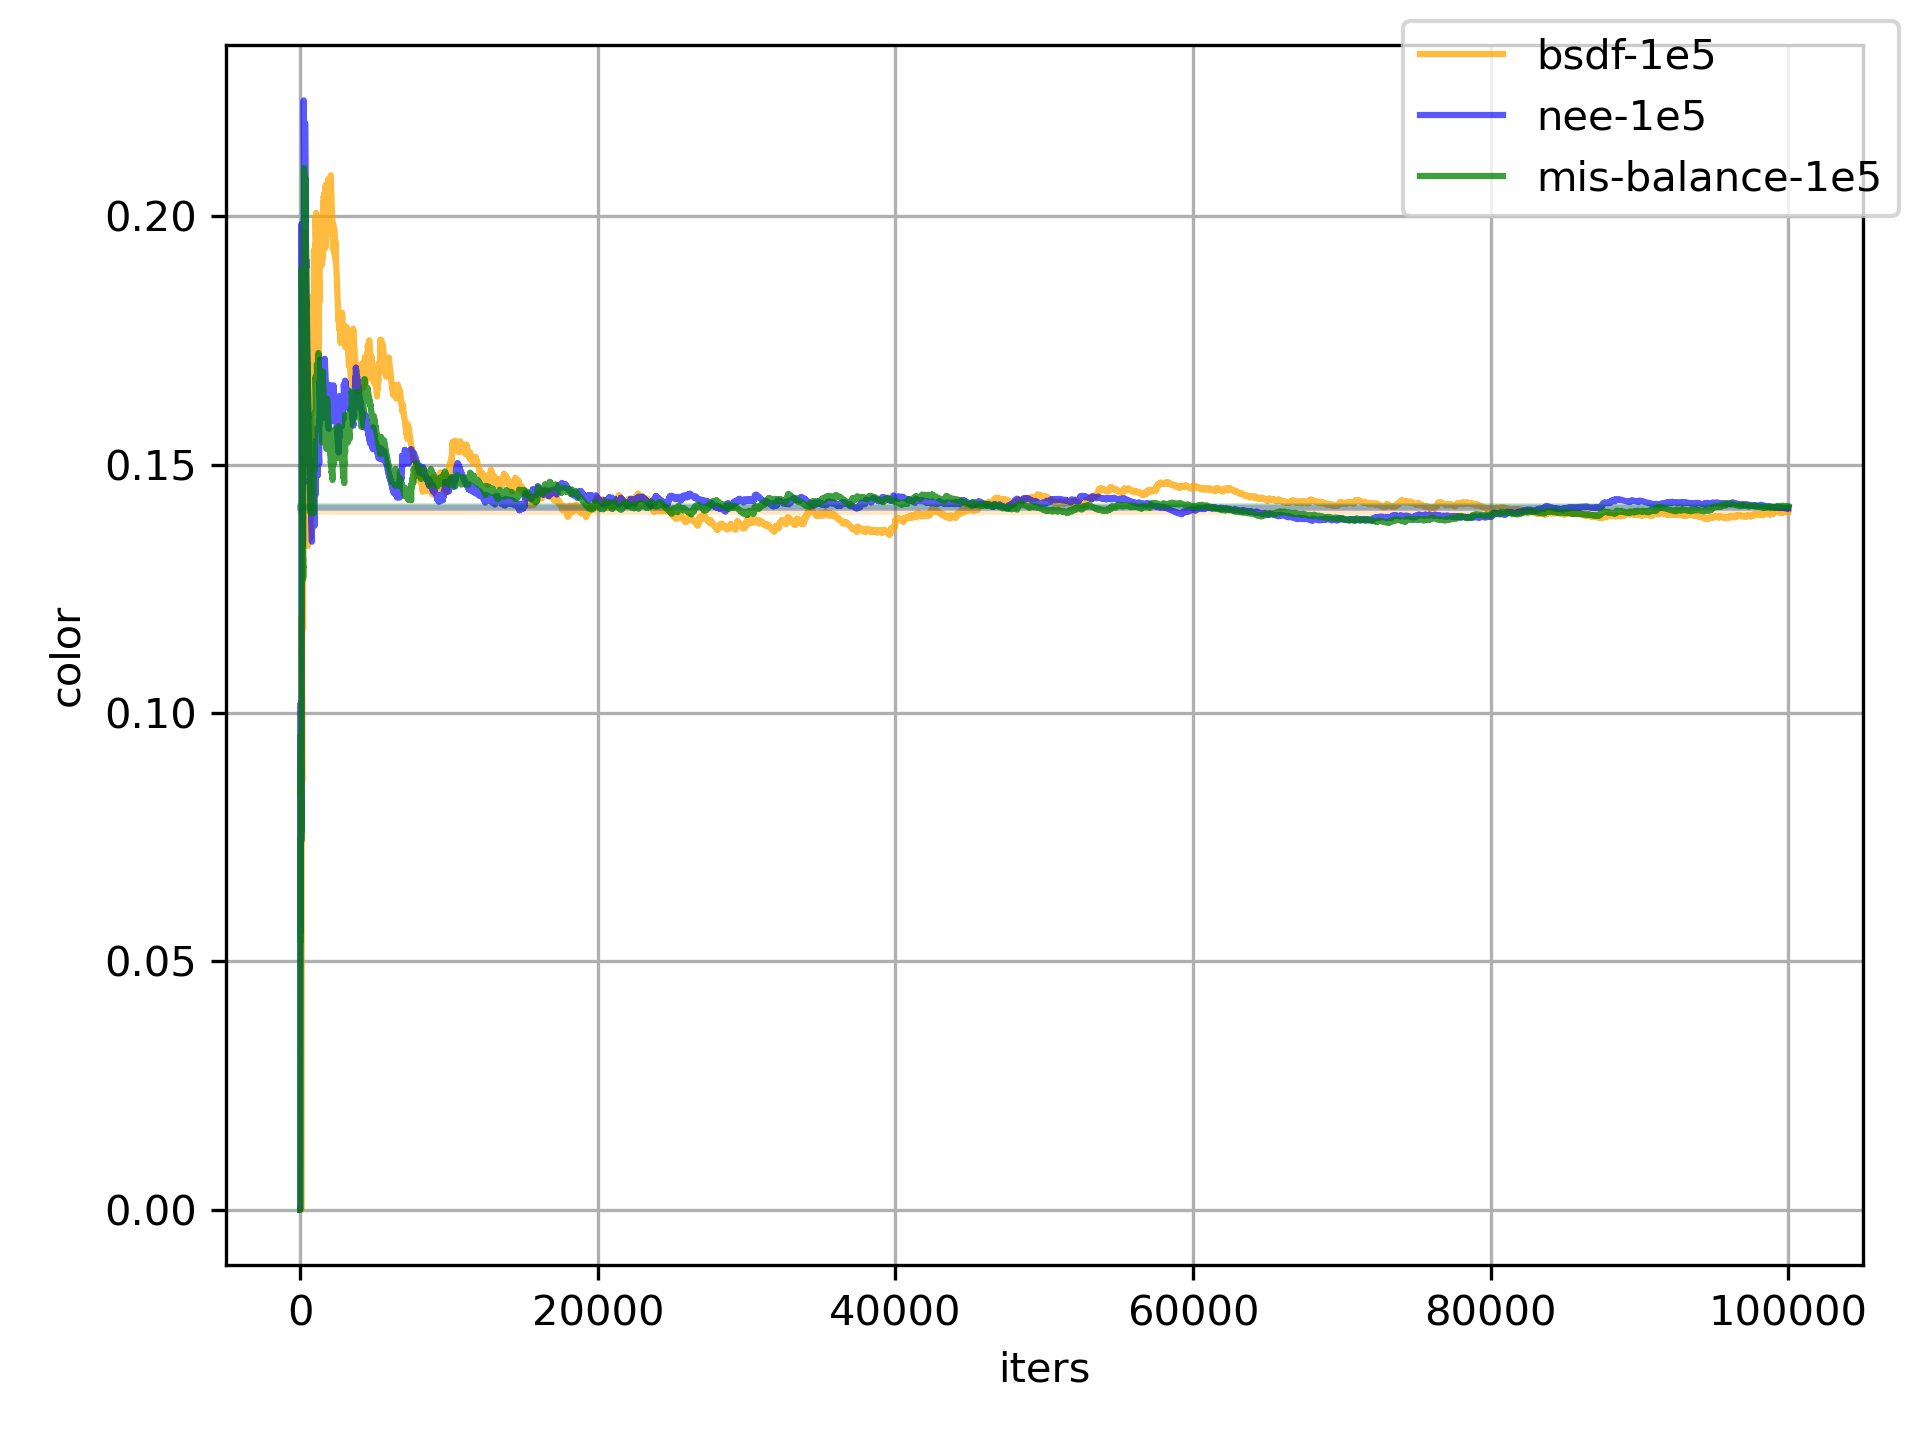
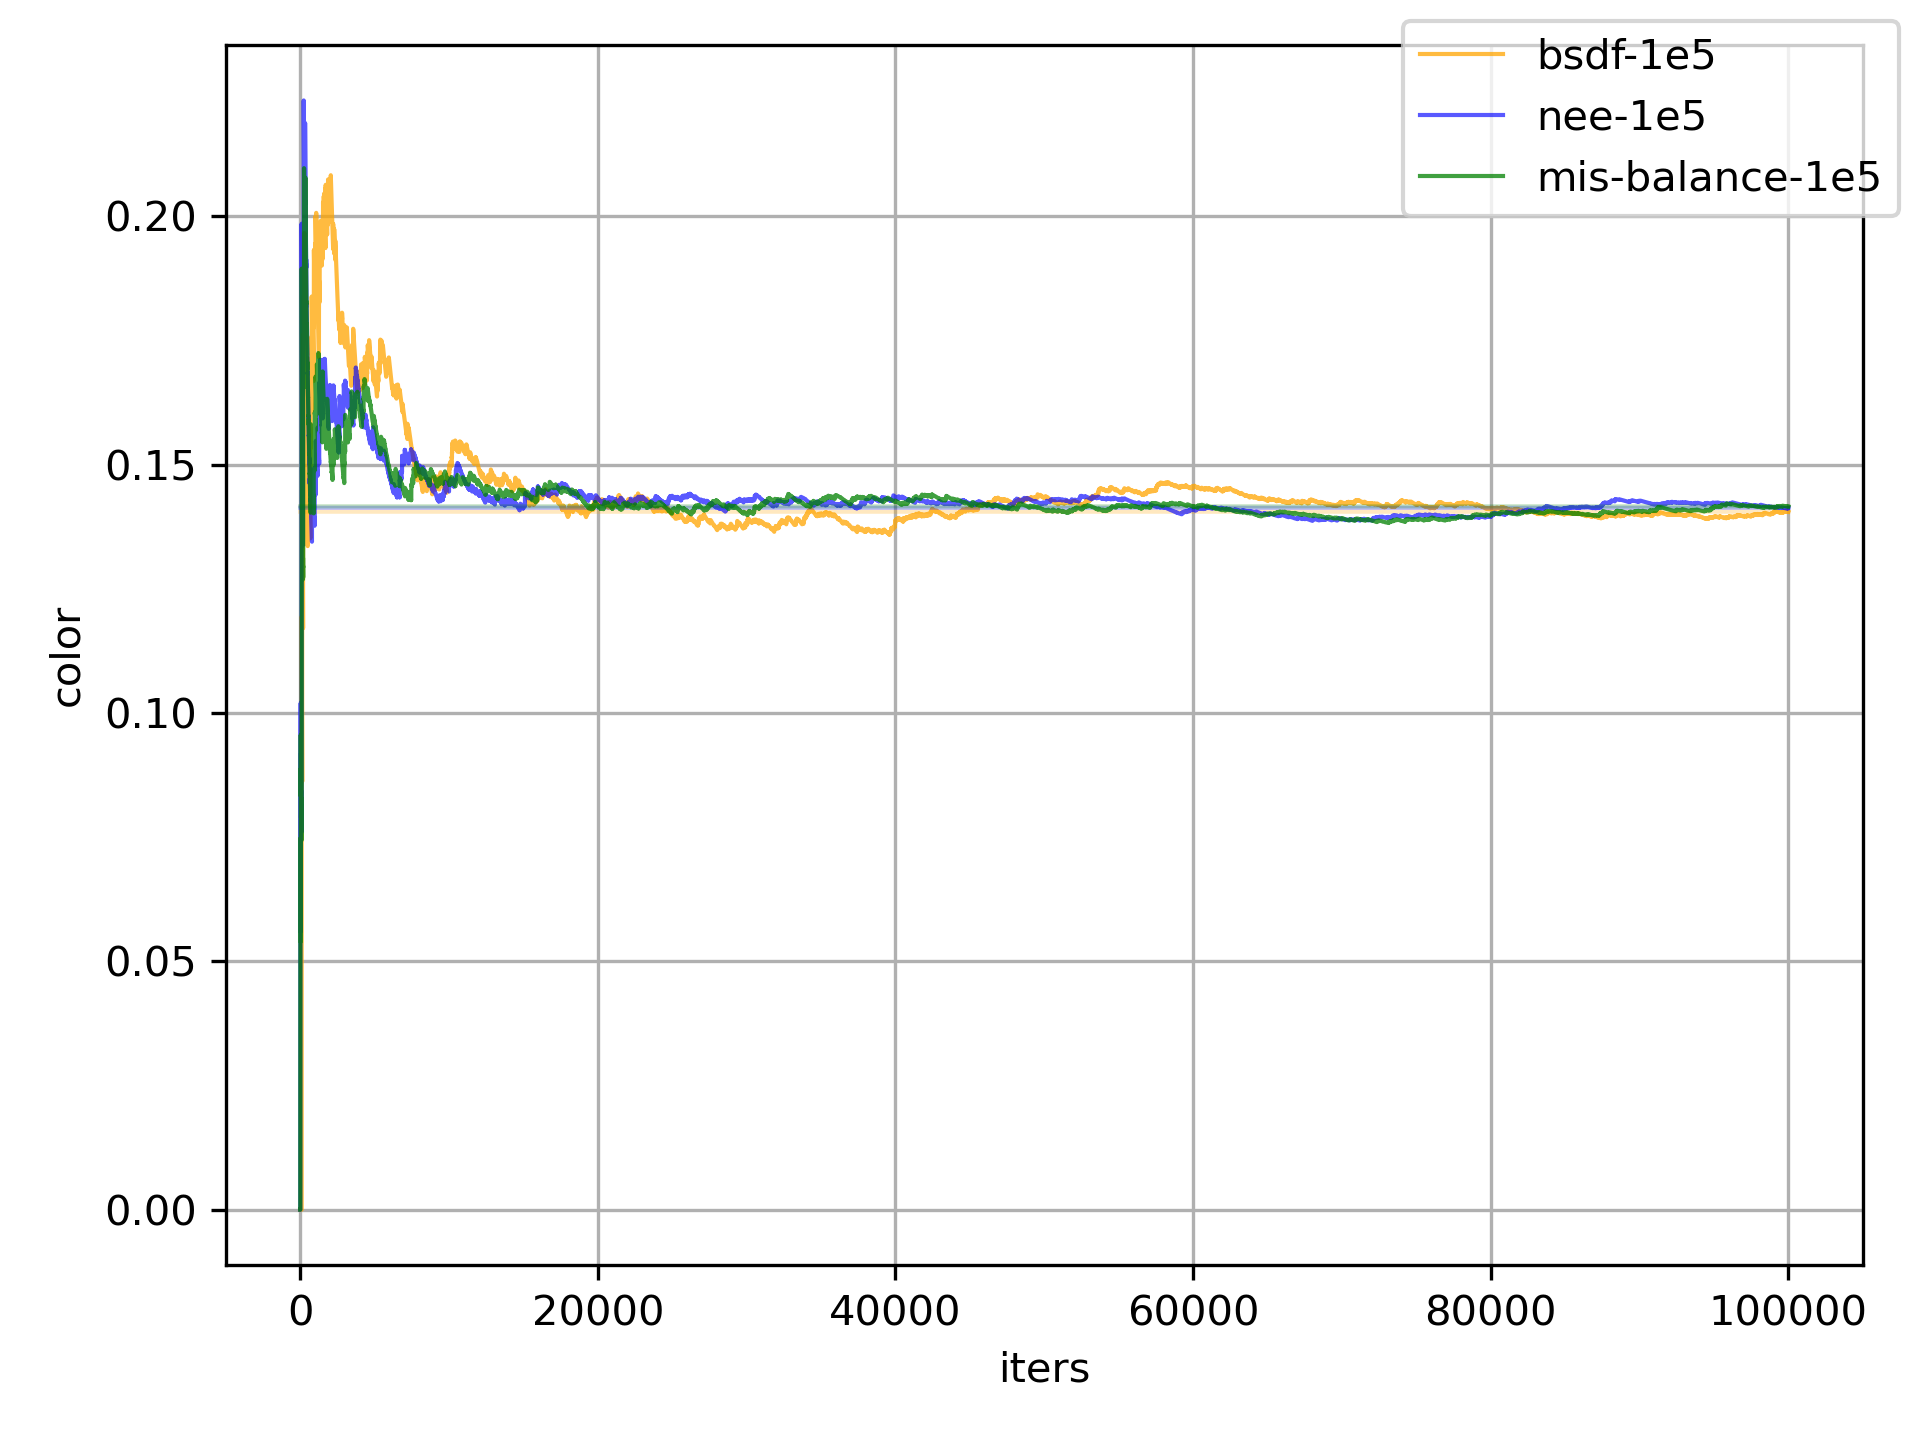
Optimize linewidth

Changed region(s): [[0.1562, 0.125, 0.9375, 0.375]]

diff --git a/experiments/convergenceCurve3.py b/experiments/convergenceCurve3.py
@@ -71,12 +71,12 @@ y33 = np.ones(l) * y3[-1]
 
 fig, axs = plt.subplots(1, 1)
     
-axs.plot(x1, y1,  color='orange', alpha=0.75, label=s1)
-axs.plot(x1, y11, color='orange', alpha=0.25)
-axs.plot(x2, y2,  color='blue', alpha=0.65, label=s2)
-axs.plot(x2, y22, color='blue', alpha=0.25)
-axs.plot(x3, y3,  color='g', alpha=0.75, label=s3)
-axs.plot(x3, y33, color='g', alpha=0.25)
+axs.plot(x1, y1,  color='orange', alpha=0.75, linewidth=1, label=s1)
+axs.plot(x1, y11, color='orange', alpha=0.25, linewidth=1)
+axs.plot(x2, y2,  color='blue',   alpha=0.65, linewidth=1, label=s2)
+axs.plot(x2, y22, color='blue',   alpha=0.25, linewidth=1)
+axs.plot(x3, y3,  color='g',      alpha=0.75, linewidth=1, label=s3)
+axs.plot(x3, y33, color='g',      alpha=0.25, linewidth=1)
 axs.set_xlabel('iters')
 axs.set_ylabel('color')
 # axs[0].set_ylim(0, 1)
